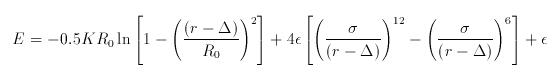
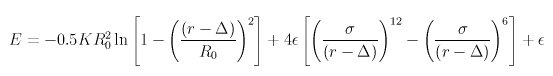
git-svn-id: svn://svn.icms.temple.edu/lammps-ro/trunk@1179 f3b2605a-c512-4ea7-a41b-209d697bcdaa

diff --git a/Eqs/bond_fene_expand.tex b/Eqs/bond_fene_expand.tex
@@ -3,7 +3,7 @@
 \begin{document}
 
 $$ 
-  E = -0.5 K R_0 
+  E = -0.5 K R_0^2
   \ln \left[1 -\left( \frac{\left(r - \Delta\right)}{R_0}\right)^2 \right] + 
   4 \epsilon \left[ \left(\frac{\sigma}{\left(r - 
       \Delta\right)}\right)^{12} - \left(\frac{\sigma}{\left(r - 
